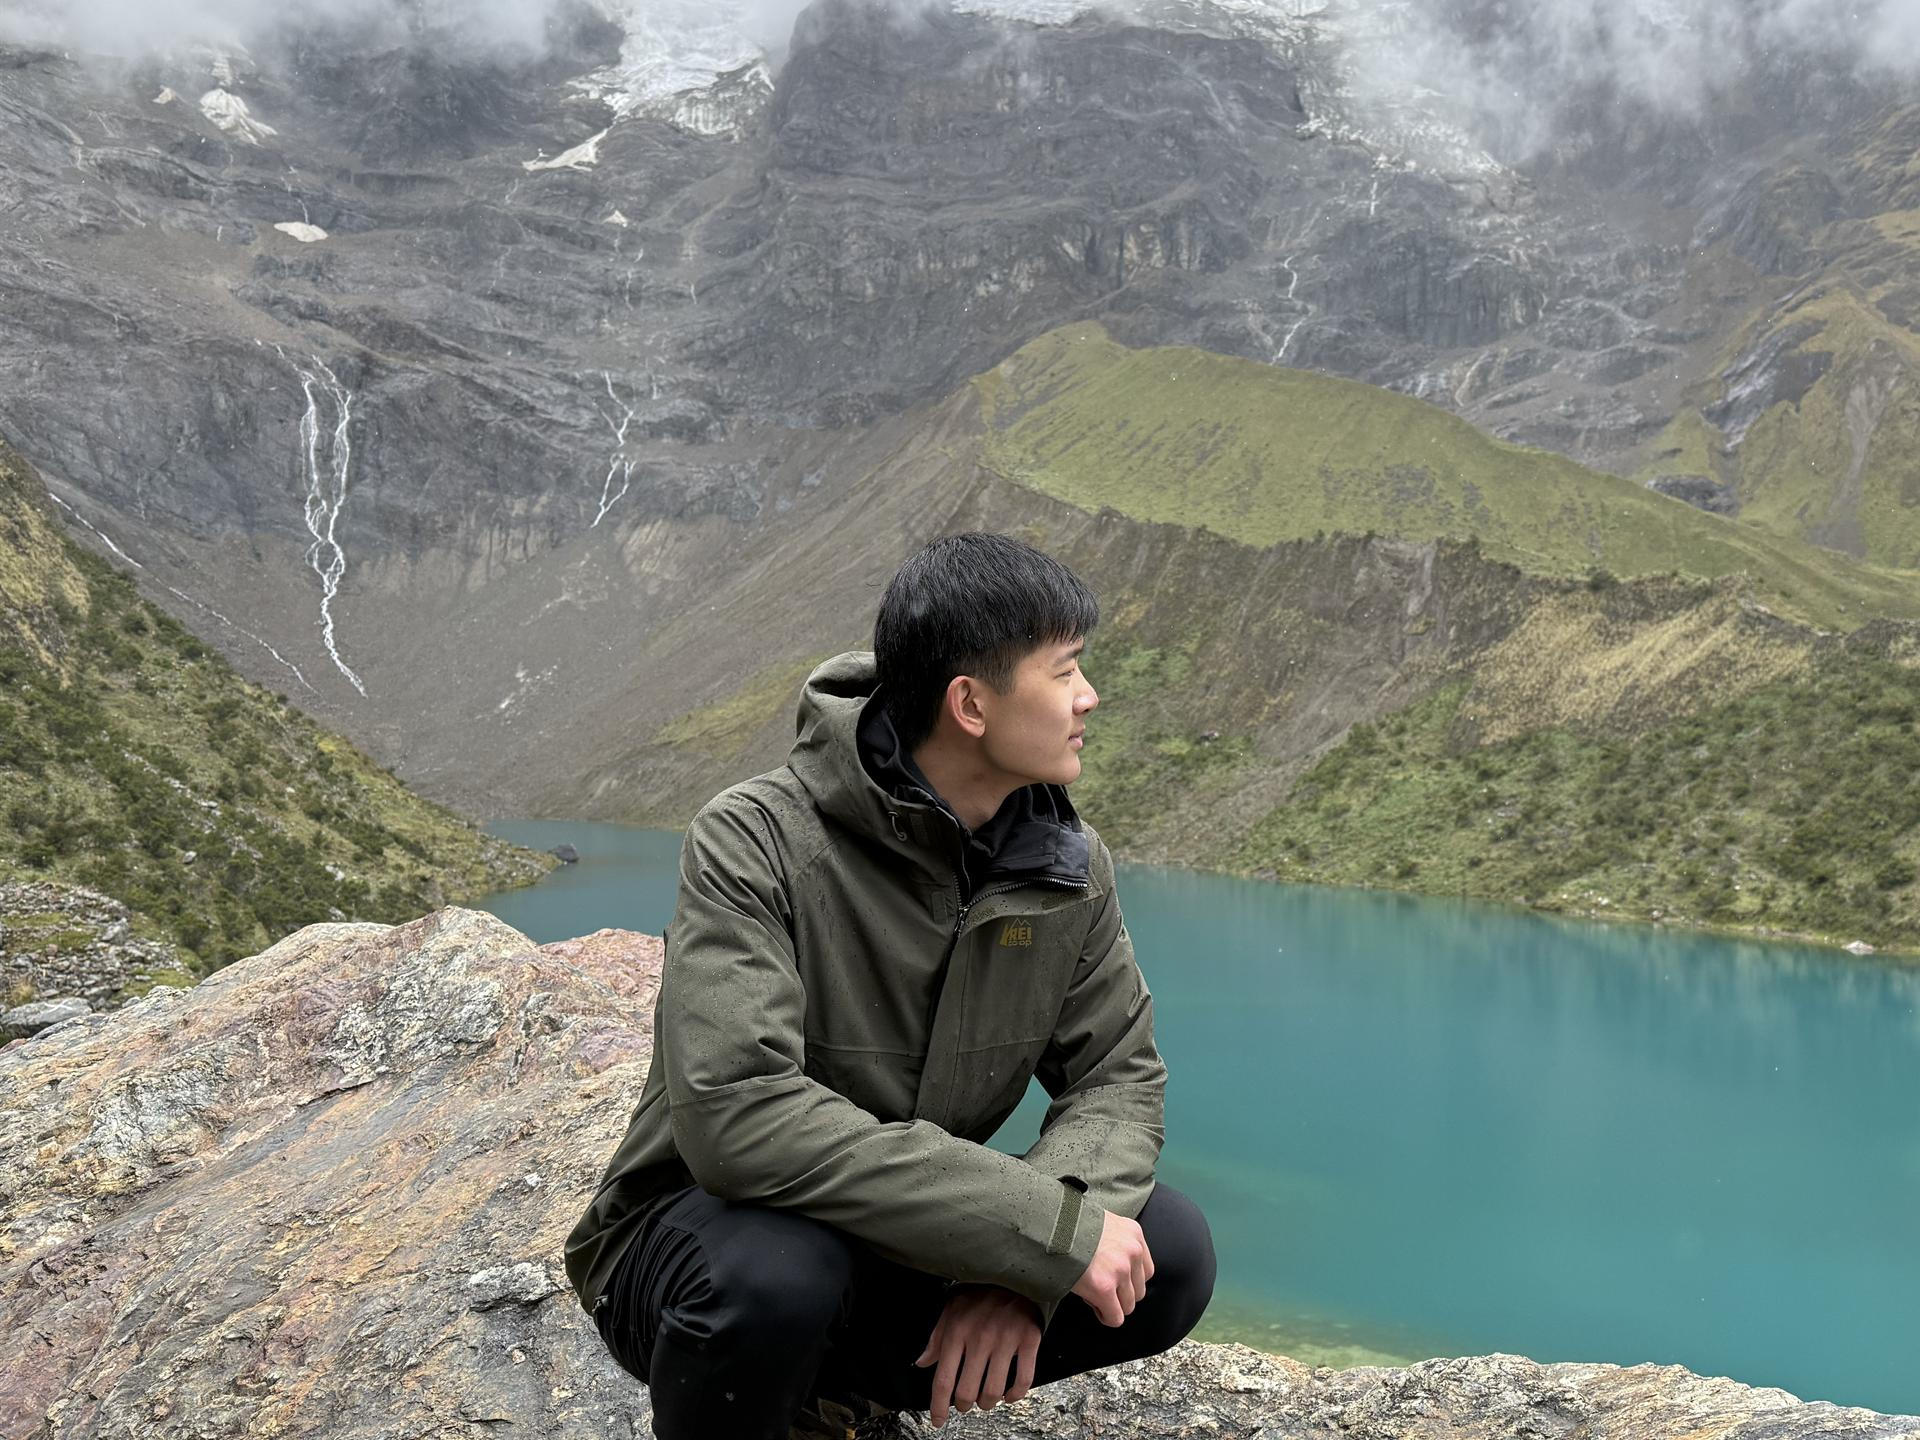
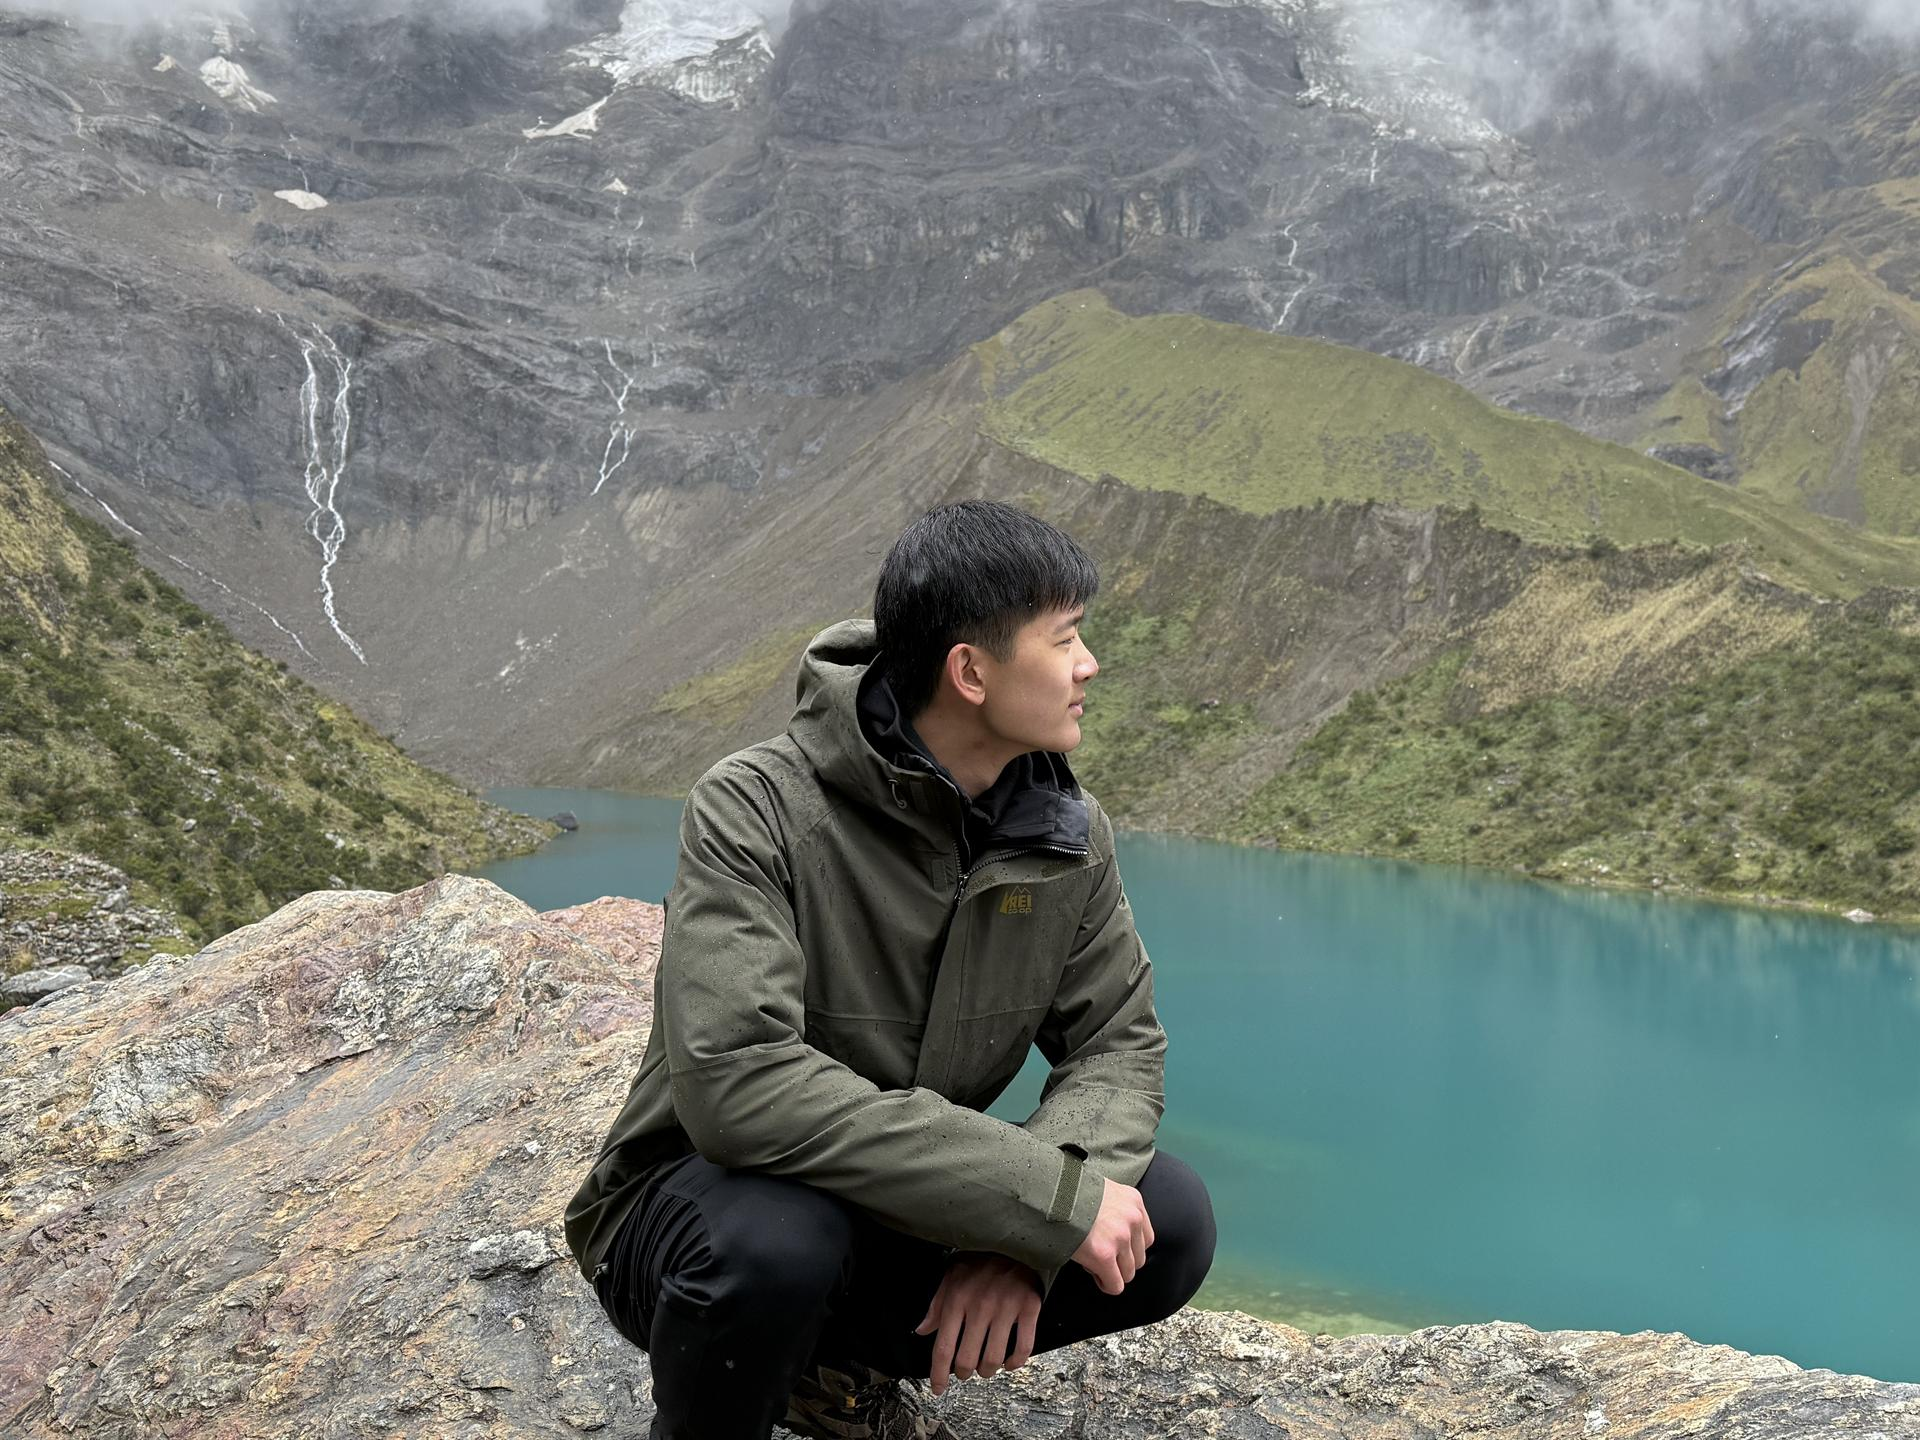
updated image

diff --git a/index.html b/index.html
@@ -91,7 +91,7 @@
         <!--===== END HEADER AREA ======-->
 
         <!--======= WELCOME AREA =======-->
-        <div id="home" class="welcome-area" data-stellar-background-ratio="0.6" style="background-image: url(assets/img/main3-bg.jpg);">
+        <div id="home" class="welcome-area" data-stellar-background-ratio="0.6" style="background-image: url(assets/img/main3-bg.jpg?v=2);">
            <div class="welcome-table">
                <div class="welcome-cell">
                     <div class="container">

diff --git a/style.css b/style.css
@@ -333,7 +333,7 @@ a{
  .welcome-text {
   text-align: center;
   gap: 0.5em;
-  padding-top: 200px;
+  padding-top: 260px;
 }
  .welcome-text h1 {
     display: block;
